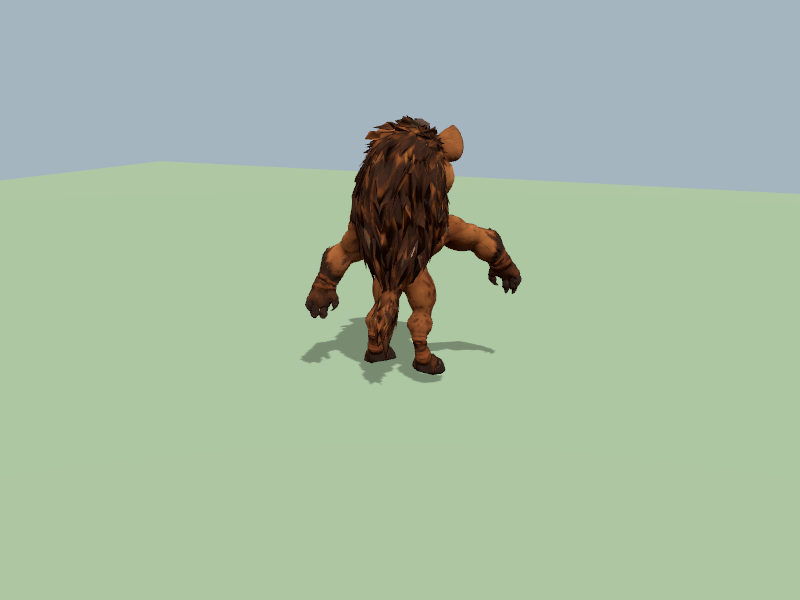
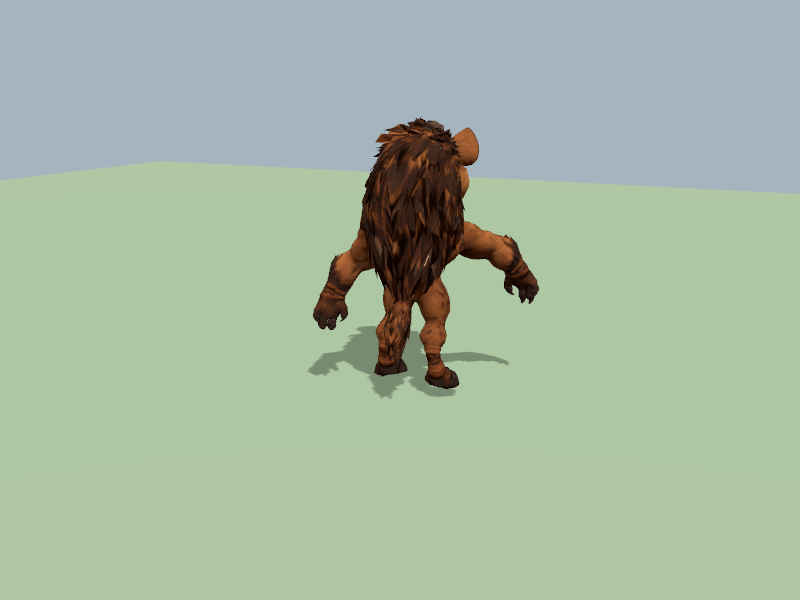
Experiment with visual root reconciliation

Changed region(s): [[0.375, 0.18, 0.6875, 0.66]]

diff --git a/src/rendering/webgpu-confirmed-animal.js b/src/rendering/webgpu-confirmed-animal.js
@@ -28,8 +28,8 @@ export async function createWebGpuConfirmedAnimal({scene,residency,state,actorId
  // rig bones still pass the strict identity/order validation unchanged.
  function visualPose(pose){if(!Array.isArray(pose?.bones))return pose;let changed=false;const extras=new Set(),bones=[];for(const bone of pose.bones){if(!visualBoneNames.has(bone?.name)&&(bone?.name==='LeftToeBase'||bone?.name==='RightToeBase')){if(extras.has(bone.name))throw Error('Duplicate auxiliary physics bone');extras.add(bone.name);changed=true;}else bones.push(bone);}return changed?{...pose,bones}:pose;}
  function update(){
-  if(closed)return;const physical=getPose();if(physical&&experimentalPoseReconciliation&&!wasPhysical&&(provisionalFall||impactData.impactApplied)){const values=[];model.traverse(node=>{if(node===model||node.isBone)values.push({node,position:node.position.clone(),quaternion:node.quaternion.clone()});});reconcile={at:clock(),values};}provisionalFall?.restore();const entity=state.raid?.animals.find(item=>item.id===actorId);if(!entity||entity.status==='gone'){provisionalFall=null;fallToken=null;reconcile=null;root.visible=false;return;}if(entity.species!==species)throw Error('Confirmed animal species changed');
-  root.visible=true;if(physical){provisionalFall=null;fallToken=null;baked?.disable();restoreAnimalImpact(impactData);onPhysical();if(physical.actorId!==actorId)throw Error('Confirmed animal pose belongs to another actor');applyConfirmedAnimalPose(root,model,visualPose(physical));if(reconcile){const t=THREE.MathUtils.clamp((clock()-reconcile.at)/150,0,1),blend=t*t*(3-2*t);for(const item of reconcile.values){item.node.position.lerpVectors(item.position,item.node.position,blend);item.node.quaternion.slerp(item.quaternion,1-blend);}root.updateMatrixWorld(true);if(t>=1)reconcile=null;}wasPhysical=true;return;}
+  if(closed)return;const physical=getPose();if(physical&&experimentalPoseReconciliation&&!wasPhysical&&(provisionalFall||impactData.impactApplied)){const values=[];model.updateWorldMatrix(true,false);const worldPosition=model.getWorldPosition(new THREE.Vector3()),worldQuaternion=model.getWorldQuaternion(new THREE.Quaternion());model.traverse(node=>{if(node===model||node.isBone)values.push({node,position:node.position.clone(),quaternion:node.quaternion.clone()});});reconcile={at:clock(),values,worldPosition,worldQuaternion,anchored:false};}provisionalFall?.restore();const entity=state.raid?.animals.find(item=>item.id===actorId);if(!entity||entity.status==='gone'){provisionalFall=null;fallToken=null;reconcile=null;root.visible=false;return;}if(entity.species!==species)throw Error('Confirmed animal species changed');
+  root.visible=true;if(physical){provisionalFall=null;fallToken=null;baked?.disable();restoreAnimalImpact(impactData);onPhysical();if(physical.actorId!==actorId)throw Error('Confirmed animal pose belongs to another actor');applyConfirmedAnimalPose(root,model,visualPose(physical));if(reconcile){if(!reconcile.anchored){const item=reconcile.values[0],inverseRoot=root.getWorldQuaternion(new THREE.Quaternion()).invert();item.position.copy(root.worldToLocal(reconcile.worldPosition));item.quaternion.copy(inverseRoot.multiply(reconcile.worldQuaternion));reconcile.anchored=true;}const t=THREE.MathUtils.clamp((clock()-reconcile.at)/150,0,1),blend=t*t*(3-2*t);for(const item of reconcile.values){item.node.position.lerpVectors(item.position,item.node.position,blend);item.node.quaternion.slerp(item.quaternion,1-blend);}root.updateMatrixWorld(true);if(t>=1)reconcile=null;}wasPhysical=true;return;}
   reconcile=null;
   if(wasPhysical){action?.stop();key=null;root.quaternion.identity();root.scale.set(1,1,1);for(const item of rest){item.node.position.copy(item.position);item.node.quaternion.copy(item.quaternion);item.node.scale.copy(item.scale);}wasPhysical=false;}
   const mesh=residency.get(Math.floor((entity.x+24)/48),Math.floor((entity.z+24)/48));let height=0;

diff --git a/tests/browser/webgpu-provisional-beast.js b/tests/browser/webgpu-provisional-beast.js
@@ -12,6 +12,6 @@ try{
  const scene=new THREE.Scene(),camera=new THREE.PerspectiveCamera(35,800/600,.1,100),floor=new THREE.Mesh(new THREE.PlaneGeometry(30,30),new THREE.MeshStandardMaterial({color:'#94aa8a'}));floor.rotation.x=-Math.PI/2;floor.receiveShadow=true;scene.add(floor);scene.background=new THREE.Color('#a5b5bf');camera.position.set(3,2.4,6);camera.lookAt(0,.8,0);scene.add(new THREE.HemisphereLight(0xffffff,0x665544,2));const light=new THREE.DirectionalLight(0xffffff,3);light.position.set(4,8,5);light.castShadow=true;scene.add(light);
  const [gltf,falls]=await Promise.all([new GLTFLoader().setMeshoptDecoder(MeshoptDecoder).loadAsync(ANIMAL_ACTIONS.animals.hyena.url),loadBakedFalls()]);gltf.scene.traverse(o=>{if(o.isMesh)o.castShadow=true;});const state={elapsed:1,raid:{animals:[{id:'hyena',species:'hyena',status:'walking',x:0,z:0,radius:.7,heading:0,motionPhase:.2}]}},manager=new ProvisionalBeastImpact({now:()=>window.qaClock??0}),assetBank={async acquire(){return {model:gltf.scene,clips:prepareAnimalClips(gltf.animations),release(){}};}};let physical=null;const actor=await createWebGpuConfirmedAnimal({scene,residency:{get:()=>null},state,actorId:'hyena',renderer,assetBank,experimentalPoseReconciliation:true,clock:()=>window.qaClock??0,getPose:()=>physical,getFalls:()=>({get:key=>falls.get(window.qaFallDirection?'hyena:'+window.qaFallDirection:key)}),getProvisional:(animal,elapsed)=>manager.sample(animal,elapsed,{holdUntilPhysical:true})});
  const command={kind:'castAttack',id:'qa',targetId:'hyena',selection:{origin:{x:-3,y:2,z:-3},contact:{x:0,y:1,z:0}}};manager.begin(command,state,()=>0);
- window.qaProvisionalBeast={backend:renderer.backend.isWebGPUBackend,setup({heading=0,origin={x:-2,y:2.7,z:2},contact={x:0,y:.7,z:0}}={}){physical=null;manager.clear();state.raid.animals[0].heading=heading;window.qaClock=0;manager.begin({kind:'castAttack',id:'qa',targetId:'hyena',selection:{origin,contact}},state,()=>0);actor.update();},async frame(age){window.qaClock=age*1000;actor.update();await renderer.renderAsync(scene,camera);await renderer.backend.device.queue.onSubmittedWorkDone();return {age,falling:actor.isProvisionalFalling()};},async physical(pose,anchor){physical=structuredClone(pose);physical.actorId='hyena';physical.root[0]-=anchor.x;physical.root[2]-=anchor.z;physical.root[1]-=anchor.y;actor.update();await renderer.renderAsync(scene,camera);await renderer.backend.device.queue.onSubmittedWorkDone();},end(){manager.end('qa');actor.update();}};
+ window.qaProvisionalBeast={backend:renderer.backend.isWebGPUBackend,setup({heading=0,origin={x:-2,y:2.7,z:2},contact={x:0,y:.7,z:0}}={}){physical=null;manager.clear();state.raid.animals[0].heading=heading;window.qaClock=0;manager.begin({kind:'castAttack',id:'qa',targetId:'hyena',selection:{origin,contact}},state,()=>0);actor.update();},async frame(age){window.qaClock=age*1000;actor.update();await renderer.renderAsync(scene,camera);await renderer.backend.device.queue.onSubmittedWorkDone();return {age,falling:actor.isProvisionalFalling()};},groundClearance(){actor.root.updateMatrixWorld(true);const point=new THREE.Vector3();let min=Infinity;gltf.scene.traverse(mesh=>{if(!mesh.isSkinnedMesh||!mesh.visible)return;const count=mesh.geometry.getAttribute('position').count;for(let i=0;i<count;i++){mesh.getVertexPosition(i,point).applyMatrix4(mesh.matrixWorld);min=Math.min(min,point.y);}});return min;},async physical(pose,anchor){physical=structuredClone(pose);physical.actorId='hyena';physical.root[0]-=anchor.x;physical.root[2]-=anchor.z;physical.root[1]-=anchor.y;actor.update();await renderer.renderAsync(scene,camera);await renderer.backend.device.queue.onSubmittedWorkDone();},end(){manager.end('qa');actor.update();}};
  await window.qaProvisionalBeast.frame(0);window.qaProvisionalBeast.ready=true;
 }catch(error){window.qaProvisionalBeast={error:String(error.stack??error)};}

diff --git a/tests/webgpu-confirmed-animal.test.js b/tests/webgpu-confirmed-animal.test.js
@@ -26,6 +26,6 @@ test('QA bone reconciliation ends on the authoritative pose while root remains a
  const scene=new Scene(),model=new Group(),bone=new Bone();bone.name='Spine';model.add(bone);const animal={id:'a',species:'hyena',status:'walking',x:0,z:0,heading:0,radius:.7},game={raid:{animals:[animal]},elapsed:1},bank={async acquire(){return {model,clips:[new AnimationClip('Walking',1,[])],release(){}};}};let now=0,physical=null;
  const hit={at:0,impactAt:0,point:{x:0,y:1,z:0},direction:{x:1,y:0,z:0},intensity:1,ground:0},sample={animal:{...animal,magicImpact:hit},elapsed:.1};
  const actor=await createWebGpuConfirmedAnimal({scene,residency:{get:()=>null},state:game,actorId:'a',assetBank:bank,experimentalPoseReconciliation:true,clock:()=>now,getPose:()=>physical,getProvisional:()=>sample});actor.update();const initial=bone.quaternion.clone(),transform=(x=0)=>[x,0,0,0,0,0,1,1,1,1];
- physical={actorId:'a',active:true,root:transform(7),model:transform(),bones:[{name:'Spine',transform:[0,0,0,0,Math.SQRT1_2,0,Math.SQRT1_2,1,1,1]}]};actor.update();assert.equal(actor.root.position.x,7);assert.ok(bone.quaternion.angleTo(initial)<1e-6);assert.equal(actor.isReconciling(),true);
- now=150;actor.update();assert.equal(actor.isReconciling(),false);assert.ok(bone.quaternion.angleTo(new Bone().quaternion.set(0,Math.SQRT1_2,0,Math.SQRT1_2))<1e-6);actor.dispose();
+ physical={actorId:'a',active:true,root:transform(7),model:transform(),bones:[{name:'Spine',transform:[0,0,0,0,Math.SQRT1_2,0,Math.SQRT1_2,1,1,1]}]};actor.update();assert.equal(actor.root.position.x,7);assert.equal(model.position.x,-7);assert.ok(bone.quaternion.angleTo(initial)<1e-6);assert.equal(actor.isReconciling(),true);
+ now=150;actor.update();assert.equal(actor.isReconciling(),false);assert.equal(model.position.x,0);assert.ok(bone.quaternion.angleTo(new Bone().quaternion.set(0,Math.SQRT1_2,0,Math.SQRT1_2))<1e-6);actor.dispose();
 });

diff --git a/docs/guardian/gpu-animation/webgpu-provisional-beast-qa.md b/docs/guardian/gpu-animation/webgpu-provisional-beast-qa.md
@@ -63,18 +63,27 @@ does not demonstrate a seamless visual transition or collision-safe blending.
 
 The same QA switch now permits a 150 ms visual blend of model and local bone
 poses from the provisional fall to the latest confirmed Rapier pose. Root
-position and orientation are applied immediately from Rapier; simulation,
-collisions and damage are unchanged. The roster continues ticking only actors
-that are actively blending. At the end of the interval the displayed bone
-pose is the confirmed pose. The default path does not enable this blend.
+position and orientation are applied immediately from Rapier; a temporary
+model-space visual offset preserves the previous visible world pose and decays
+to zero. Simulation, collisions and damage are unchanged. The roster continues
+ticking only actors that are actively blending. At the end of the interval the
+displayed bone pose is the confirmed pose. The default path does not enable
+this blend.
 
 `tools/experiments/audit_webgpu_fall_blend.mjs` captures the matched hyena at
 the start, middle and end of this interpolation in `reconcile-000.png`,
 `reconcile-075.png` and `reconcile-150.png`. In this controlled view the final
 image matches the captured Rapier reference, and the intermediate pose avoids
-an instantaneous full-rig snap. The unblended authoritative root nevertheless
-causes an observable screen-space shift at the start. In addition, interpolated
-limbs may intersect terrain, obstacles or other bodies: collision safety and
-the effect of subsequently changing Rapier poses have not been established.
-The capture holds one Rapier pose fixed during the 150 ms. This remains a QA
+an instantaneous full-rig snap. After adding the visual offset, the first
+reconciled image matched the preceding provisional image exactly in this
+capture. The capture holds one Rapier pose fixed during the 150 ms.
+
+The temporary offset and interpolated limbs can intersect terrain, obstacles
+or other bodies. A full-vertex diagnostic against the *flat* floor of this
+isolated control measured minimum heights +0.088, −0.297 and −0.611 at the
+start, midpoint and end. Even the unmodified final Rapier pose intersects that
+flat floor after normalization; the actual fixture terrain is not flat, so
+these measurements do not establish penetration depth in the game. They do
+show why the blend cannot be treated as contact-safe. Dynamic Rapier targets,
+slopes, body contacts and obstacles remain unverified. This remains a QA
 experiment and is not evidence for enabling the blend in production.
